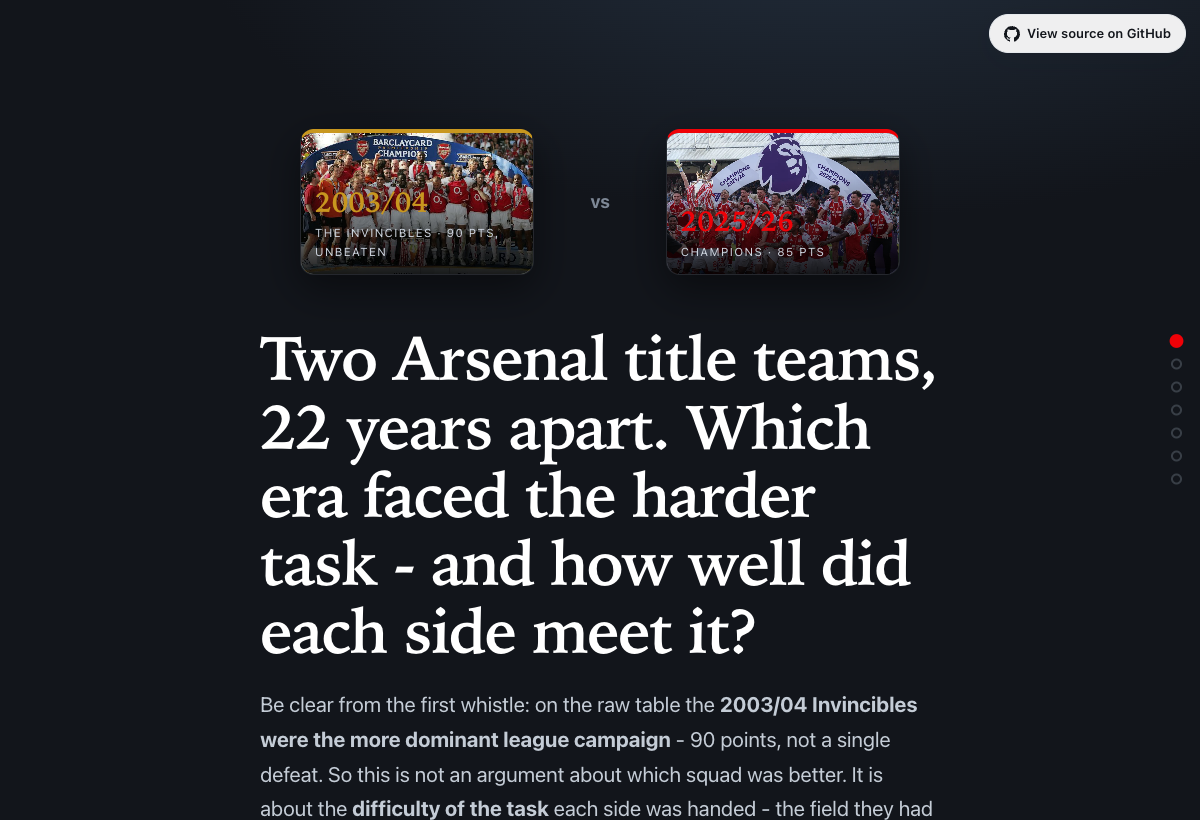
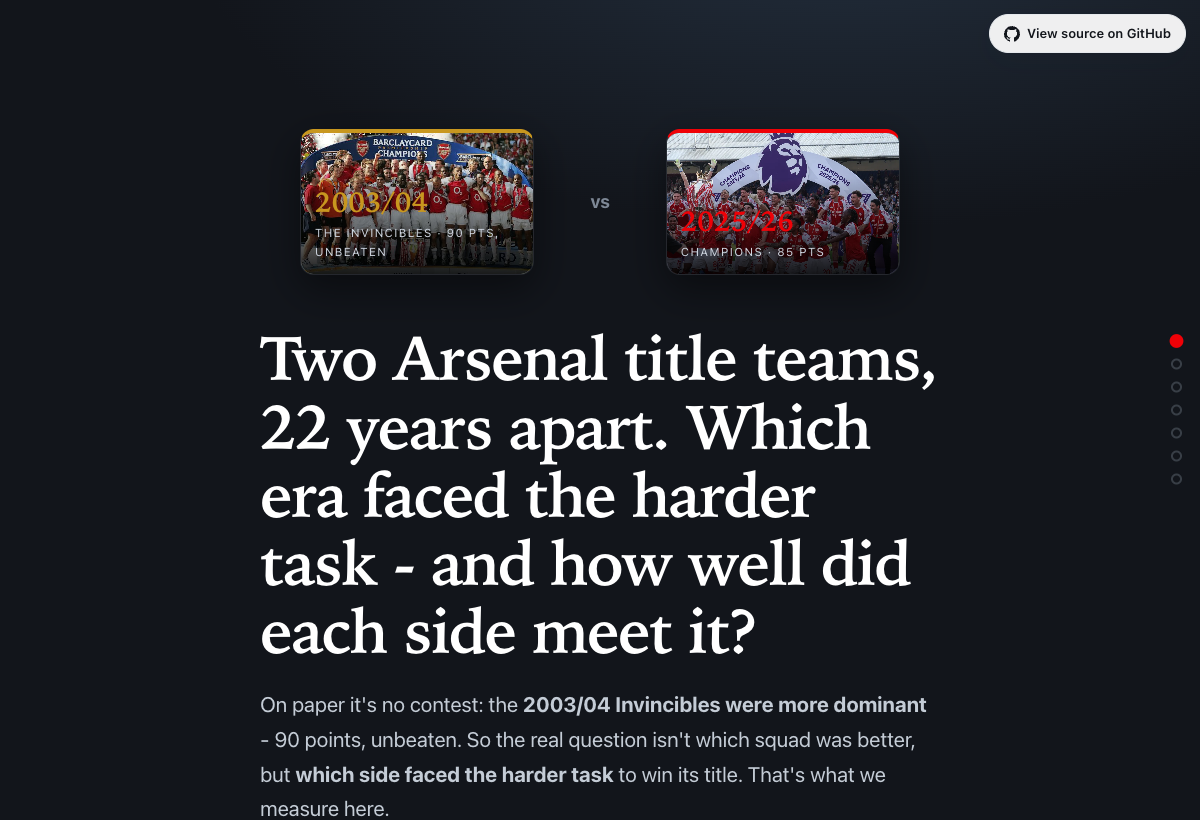
Hero: tighten the opening paragraph
The old lead crammed five ideas into one convoluted sentence and buried the point.
New version is three short sentences: Invincibles more dominant on paper -> the real
question is which faced the harder task -> that's what we measure. Clearer purpose,
no nested clauses.

Changed region(s): [[0.2158, 0.8537, 0.7708, 1.0]]

diff --git a/web/src/sections/Hero.tsx b/web/src/sections/Hero.tsx
@@ -35,13 +35,10 @@ export function Hero({ meta }: { meta: Meta }) {
         </Reveal>
         <Reveal delay={160}>
           <p className="lead">
-            Be clear from the first whistle: on the raw table the{" "}
-            <b>2003/04 Invincibles were the more dominant league campaign</b> - 90 points,
-            not a single defeat. So this is not an argument about which squad was better.
-            It is about the <b>difficulty of the task</b> each side was handed - the field
-            they had to beat, and the state they were in to beat it - and how well each
-            one met it. Every figure below is tagged fact, measured, or interpretation,
-            and never blended.
+            On paper it's no contest: the <b>2003/04 Invincibles were more dominant</b> -
+            90 points, unbeaten. So the real question isn't which squad was better, but{" "}
+            <b>which side faced the harder task</b> to win its title. That's what we
+            measure here.
           </p>
         </Reveal>
         <Reveal delay={240}>
